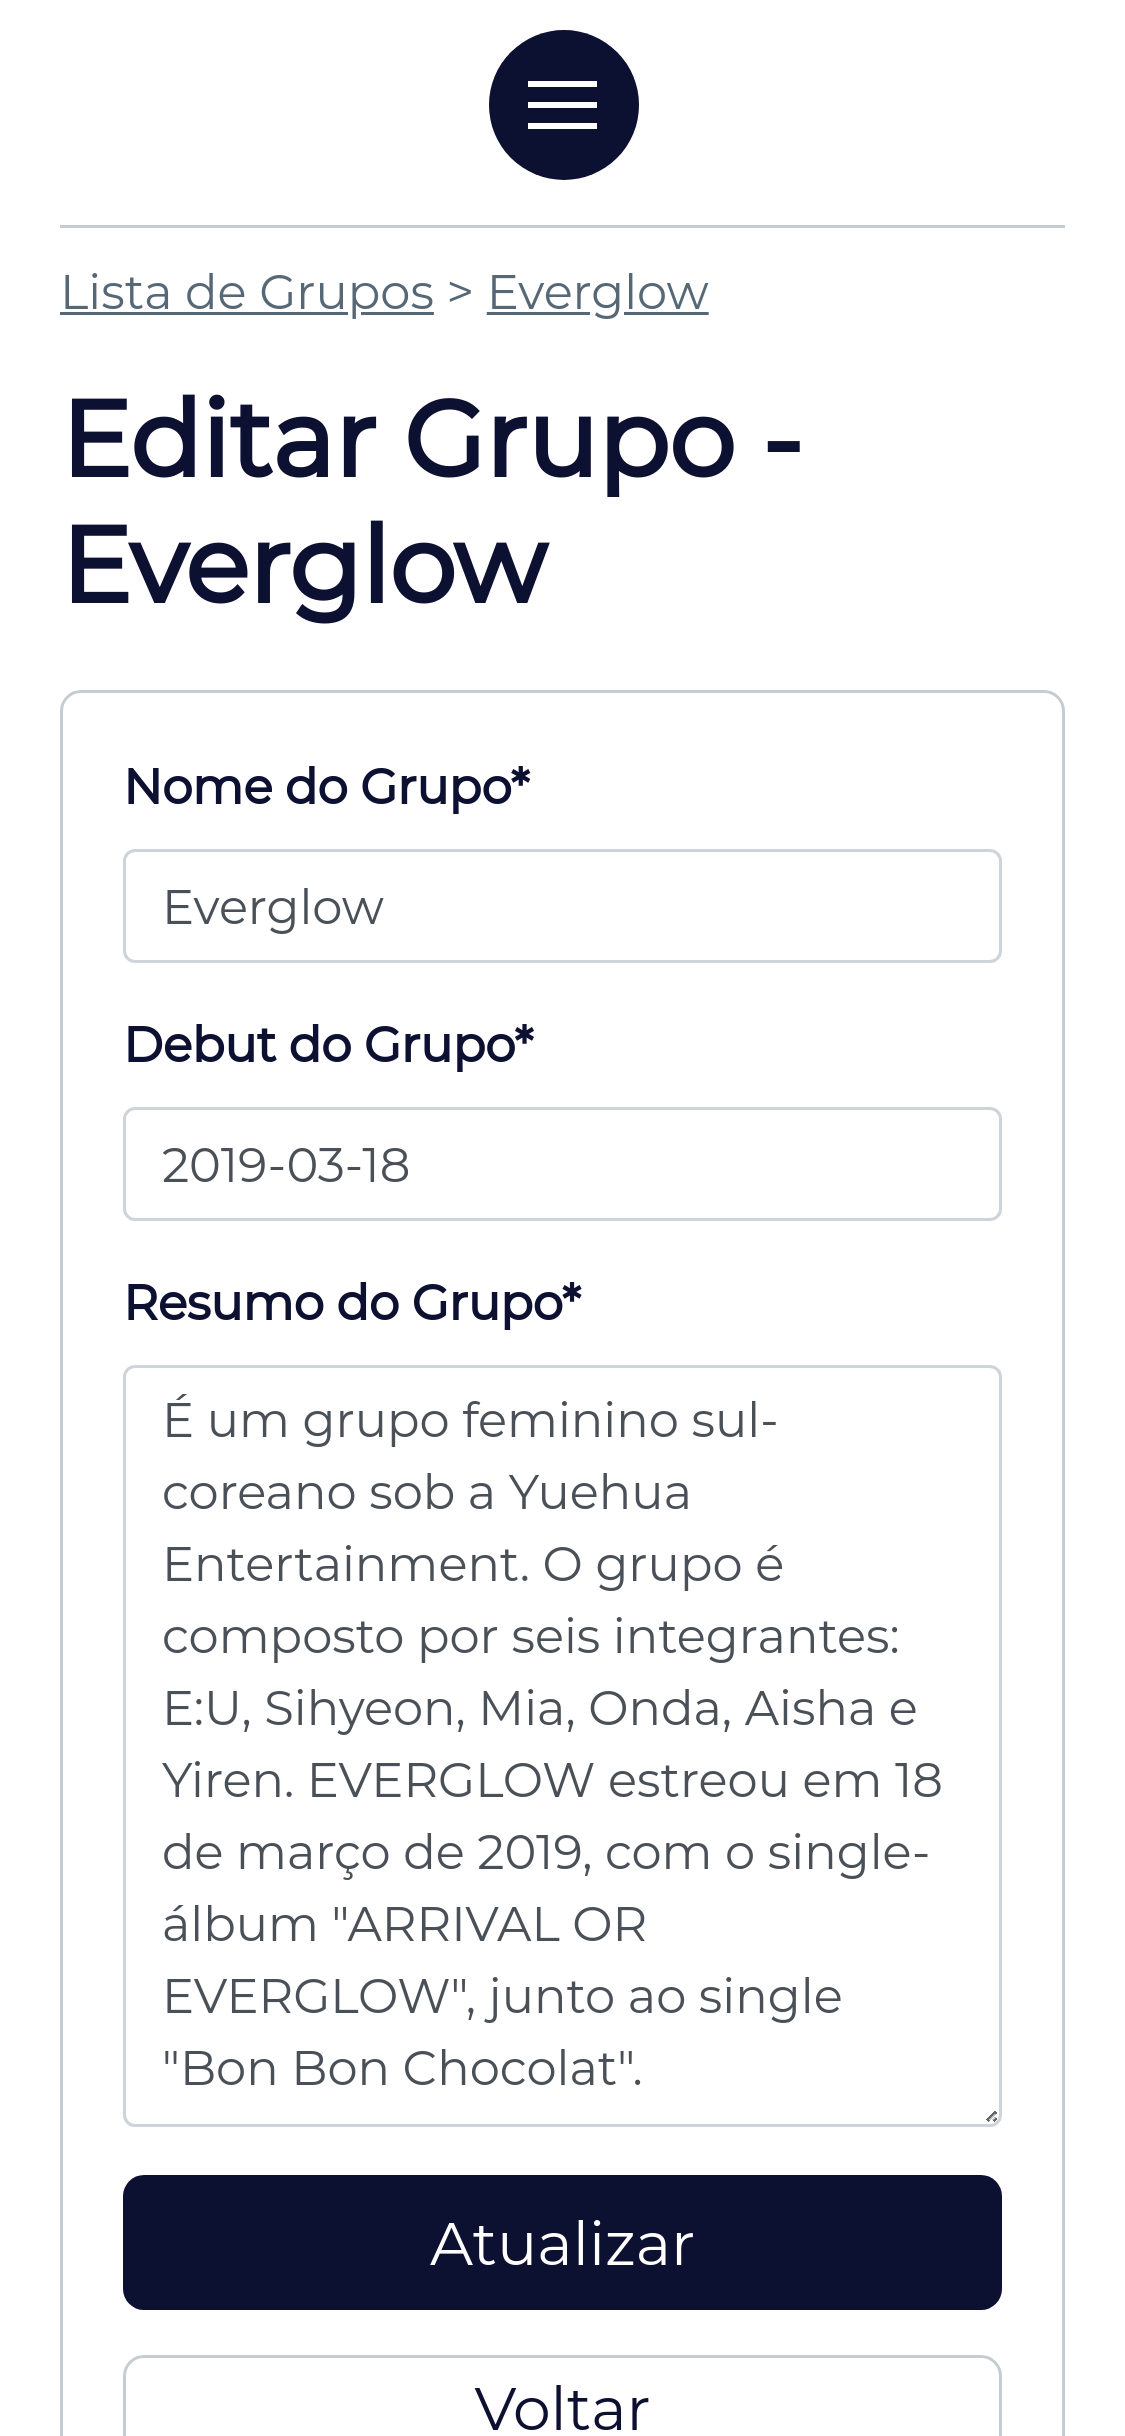
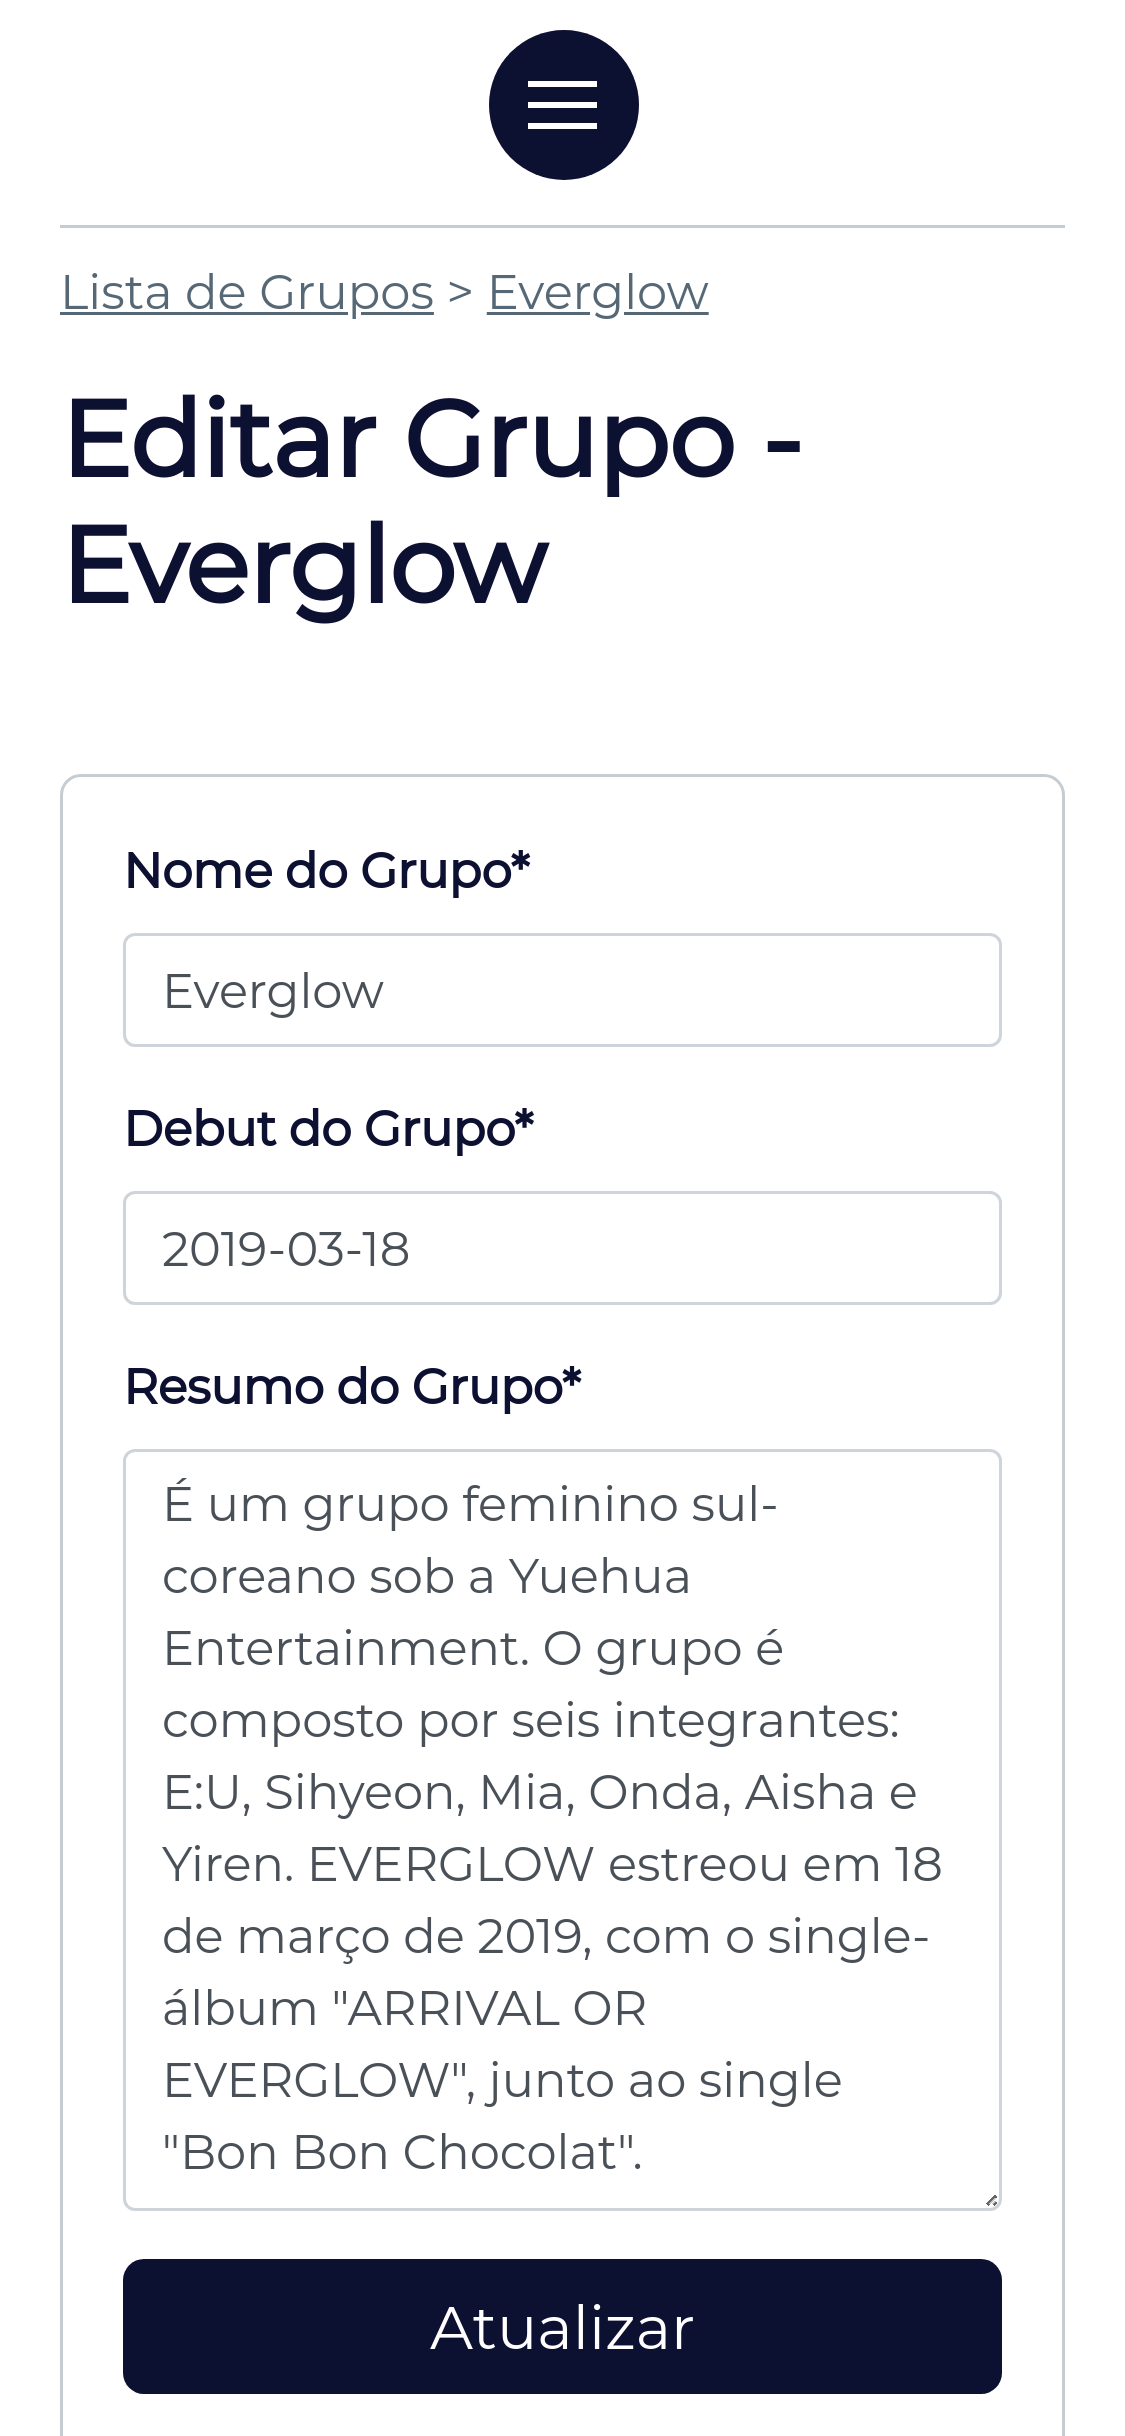
Ajuste nos tamanhos das divsCabecalho das páginas Editar, Listar, Excluir e Visualizar

Changed region(s): [[0.0933, 0.312, 0.9022, 0.9984], [0.8711, 0.4992, 0.9022, 0.5304], [0.8711, 0.3744, 0.9022, 0.4056]]

diff --git a/novosGrupos/static/css/styleExcluir.css b/novosGrupos/static/css/styleExcluir.css
@@ -1,24 +1,26 @@
-.divExcluir{
+.sectionExcluir{
     max-width: 1250px;
     width: 100%;
-    margin: auto;
-    padding: 22px;
+    margin: 50px auto 0px;
+    padding: 0px 20px;
+    padding-top: 0px;
 }
 
-.divExcluir > h1{
-    text-align: center;
-    margin-top: 22px;
-    margin-bottom: 50px;
+.sectionExcluir > h1{
+    margin-bottom: 30px;
+}
+
+.sectionExcluir > p{
+    margin-bottom: 30px;
 }
 
 .divBotoesExcluir{
     max-width: 1250px;
     width: 100%;
     margin: auto;
-    padding: 0px 20px;
     
     display: flex;
-    justify-content: center;
+    left: 0;
 }
 
 .botoesExcluir{
@@ -47,7 +49,6 @@
 }
 
 .botaoECancelar{
-    border: 1px solid black;
     border: 0 none;
 
     width: 226px;
@@ -70,6 +71,10 @@
 
 @media only screen and (max-width:650px){
 
+    .sectionExcluir{
+        text-align: center;
+    }
+    
     .divBotoesExcluir{
         justify-content: center;
         align-items: center;

diff --git a/novosGrupos/static/css/styleListar.css b/novosGrupos/static/css/styleListar.css
@@ -15,7 +15,8 @@
     }
 }
 
-.tituloListaDeListar{
+.tituloListaDeListar{ 
+    height: 45px;  
     color: #090431;
     margin-bottom: 0px;
 }
@@ -43,7 +44,7 @@
         margin: auto;
     }
     .botaoCriarListar{
-        margin: 23px auto 0px;
+        margin: 20px auto 0px;
     }
 }
 
@@ -55,7 +56,7 @@
     display:flex;
     flex-wrap: wrap;
     max-width: 1250px;
-    padding: 10px;    
+    padding: 0 10px;    
 }
 
 .divListar{

diff --git a/novosGrupos/templates/grupos/excluirGrupo.html b/novosGrupos/templates/grupos/excluirGrupo.html
@@ -8,7 +8,7 @@
 
 <section class="sectionExcluir">
     <h1><strong> Tem Certeza que deseja Excluir {{ grupo.nome }} ?</strong></h1>
-    <p>Isso apagará todos os artistas e comebacks relacionados a esse grupo</p>
+    <p>Isso apagará todos os artistas e musicas relacionados a esse grupo</p>
     
     <form action="" method="post"> 
 

diff --git a/novosGrupos/static/css/styleVisualizar.css b/novosGrupos/static/css/styleVisualizar.css
@@ -60,10 +60,9 @@
     }
 
     .botoesVisualizar{
-        margin-top: 20px;
         flex-direction: column;
-
     }
+    
     .opcaoEditarVisualizar{
         margin-right: 0px;
         margin-bottom: 20px;

diff --git a/novosGrupos/static/css/styleEditar.css b/novosGrupos/static/css/styleEditar.css
@@ -2,7 +2,7 @@
     max-width: 1250px;
     width: 100%;
     margin: auto;
-    height: auto;
+    height: 112px;
     padding: 0px 20px;
 
     display: flex;
